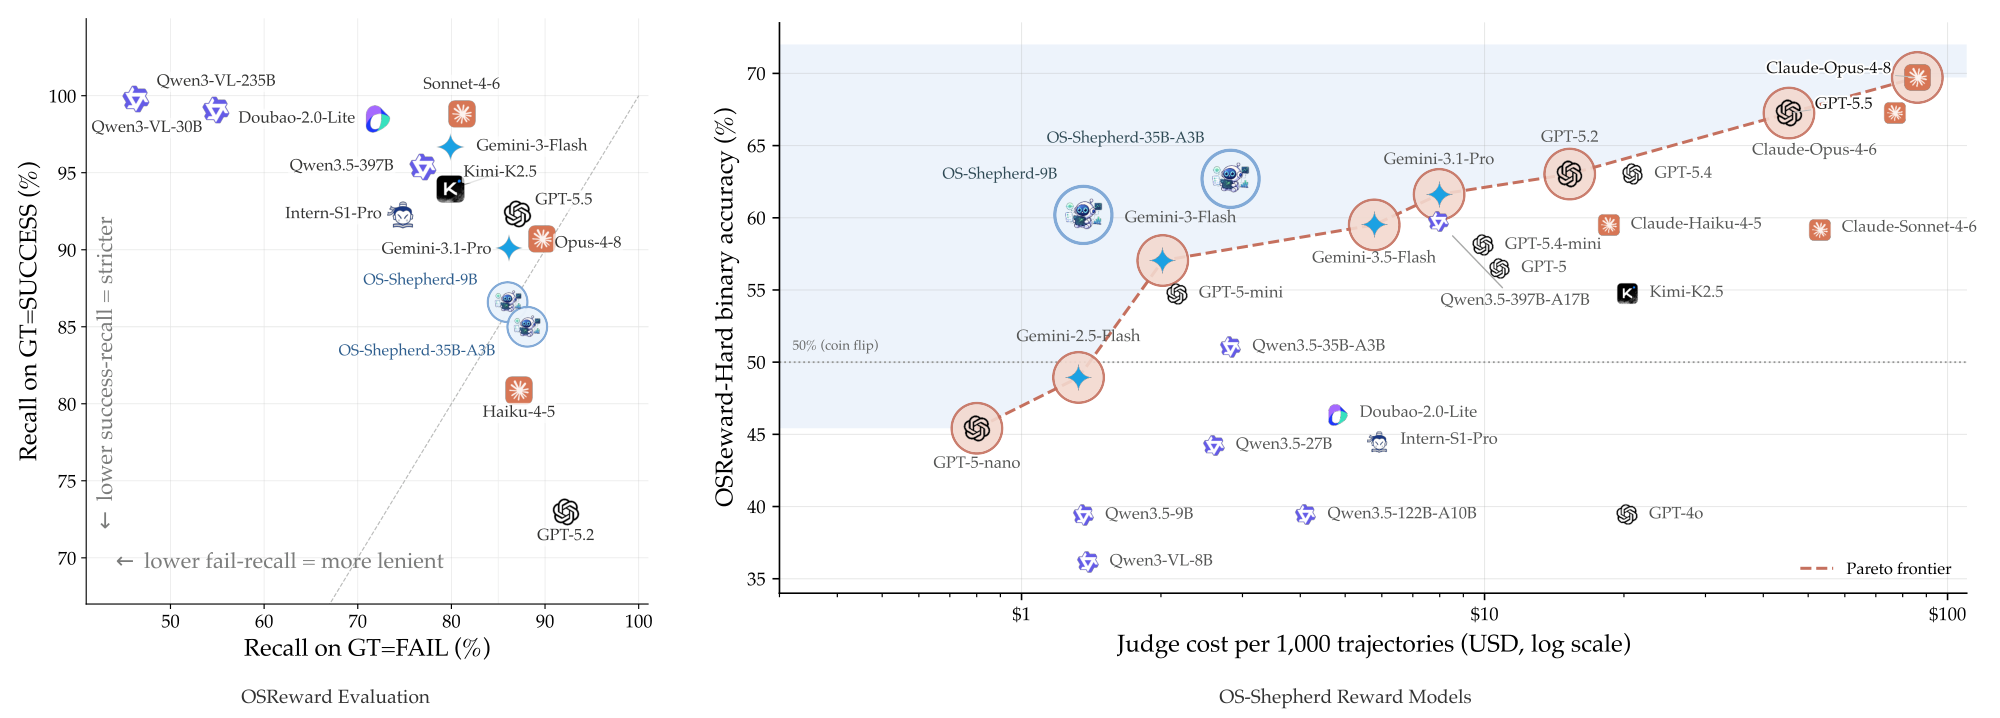
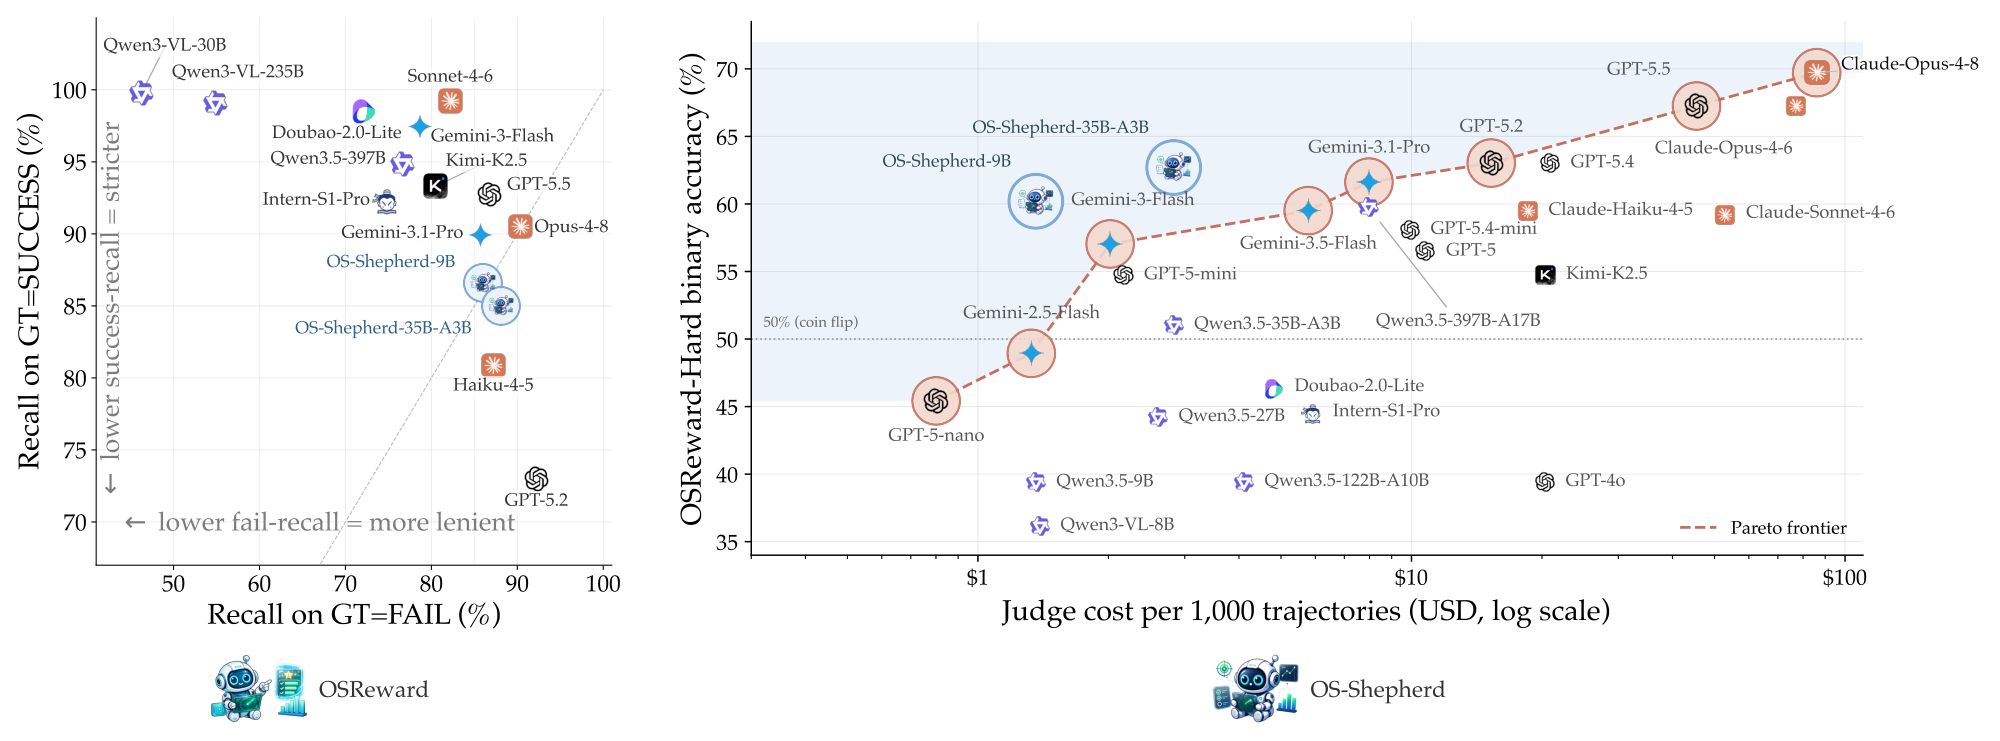
update: osreward thumbnail, nav anchors, hover zoom

diff --git a/assets/css/main.scss b/assets/css/main.scss
@@ -189,9 +189,14 @@
         &:hover {
             z-index: 1000;      /* 提升容器的层级 */
             box-shadow: 0 10px 30px rgba(0, 0, 0, 0.5); /* 阴影也应用到容器上 */
-            
+
             /* 核心：对容器进行放大和位移 */
             transform: scale(1.8) translate(-20%, -15%);
+        }
+
+        /* Denser figures get a 25% stronger hover zoom (1.8 * 1.25). */
+        &.zoom-lg:hover {
+            transform: scale(2.25) translate(-20%, -15%);
         }
     }
     

diff --git a/_pages/includes/pub.md b/_pages/includes/pub.md
@@ -2,7 +2,7 @@
 
 <!-- <a href="https://scholar.google.com/citations?user=QgMkYFAAAAAJ&hl=en"><img src="https://img.shields.io/badge/dynamic/json?url=https%3A%2F%2Fapi.semanticscholar.org%2Fgraph%2Fv1%2Fauthor%2F2112455065%3Ffields%3DcitationCount&query=%24.citationCount&label=citations&logo=googlescholar&labelColor=f6f6f6&color=9cf&style=flat" alt="citations" style="height: 20px; vertical-align: middle; margin-left: 6px; position: relative; top: -2px;"></a> -->
 
-<div class='paper-box'><div class='paper-box-image'><div><div class="badge">Preprint</div><img src='images/paper_thumbnails/osreward.png' alt="sym" width="100%"></div></div>
+<div class='paper-box'><div class='paper-box-image zoom-lg'><div><div class="badge">Preprint</div><img src='images/paper_thumbnails/osreward.png' alt="sym" width="100%"></div></div>
 <div class='paper-box-text' markdown="1">
 
 <span style="color: #C62828; font-weight: 700;">[New!]</span> [OSReward: Instituting Standardized Evaluation for Cross-Platform Computer-Use Reward Models](https://arxiv.org/abs/2607.28609) ⚖🖥
